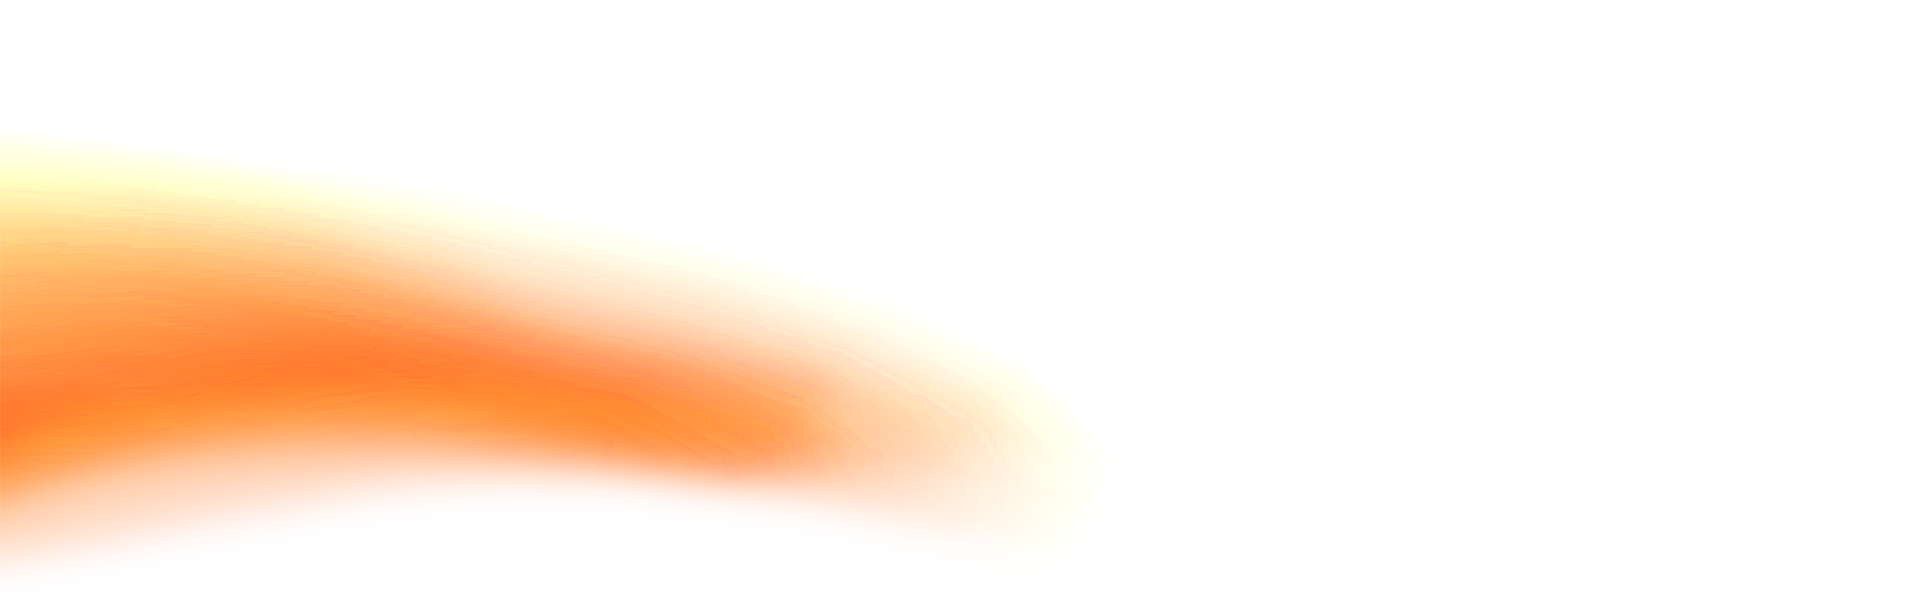
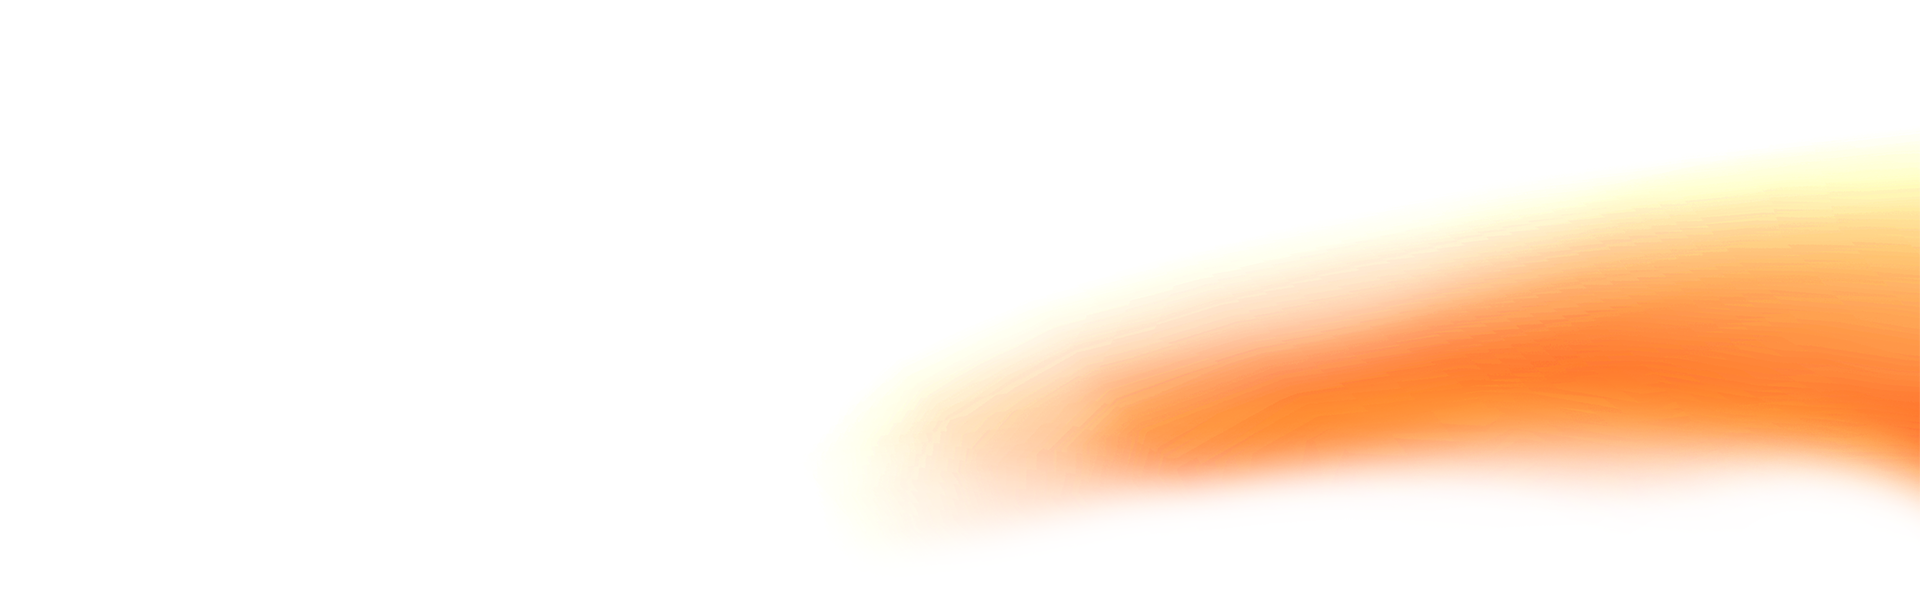
.

diff --git a/index.html b/index.html
@@ -199,7 +199,38 @@
 
     </section><!-- /Clients Section -->
 
-    <!-- About Section -->
+<!-- About Section -->
+<section id="about" class="about section about-background">
+
+  <div class="container" data-aos="fade-up">
+    <div class="row gx-0">
+
+      <div class="col-lg-6 d-flex align-items-center" data-aos="zoom-out" data-aos-delay="200">
+        <img src="assets/img/about.png" class="img-fluid" alt="">
+      </div>
+
+      <div class="col-lg-6 d-flex flex-column justify-content-center" data-aos="fade-up" data-aos-delay="200">
+        <div class="content">
+          <h3>Sobre Nosotros</h3>
+          <h2>Bienvenido a Almacenit.</h2>
+          <p>
+            En Almacenit, nos dedicamos a mejorar tu bienestar físico y mental. Nuestro centro ofrece un espacio holístico con instalaciones de vanguardia y un equipo de profesionales en más de 15 especialidades. Nos apasiona ayudarte a alcanzar tus metas de salud y bienestar a través de coaching personalizado, rehabilitación, nutrición, y entrenamiento integral.
+          </p>
+          <div class="text-center text-lg-start">
+            <a href="#" class="btn-read-more d-inline-flex align-items-center justify-content-center align-self-center">
+              <span>Ver más</span>
+              <i class="bi bi-arrow-right"></i>
+            </a>
+          </div>
+        </div>
+      </div>
+
+    </div>
+  </div>
+
+</section><!-- /About Section -->
+
+    <!-- About Section
     <section id="about" class="about section about-background">
 
       <div class="container" data-aos="fade-up">
@@ -228,7 +259,7 @@
         </div>
       </div>
 
-    </section><!-- /About Section -->
+    </section> /About Section -->
 
     <!-- Services Section -->
     <section id="services" class="services section">

diff --git a/assets/css/main.css b/assets/css/main.css
@@ -1014,7 +1014,7 @@ section,
 # About Section
 --------------------------------------------------------------*/
 .about-background {
- background: url(../img/about-bg.png) top left no-repeat;
+ background: url(../img/about-bg.png) top right no-repeat;
 }
 
 .about .content {
